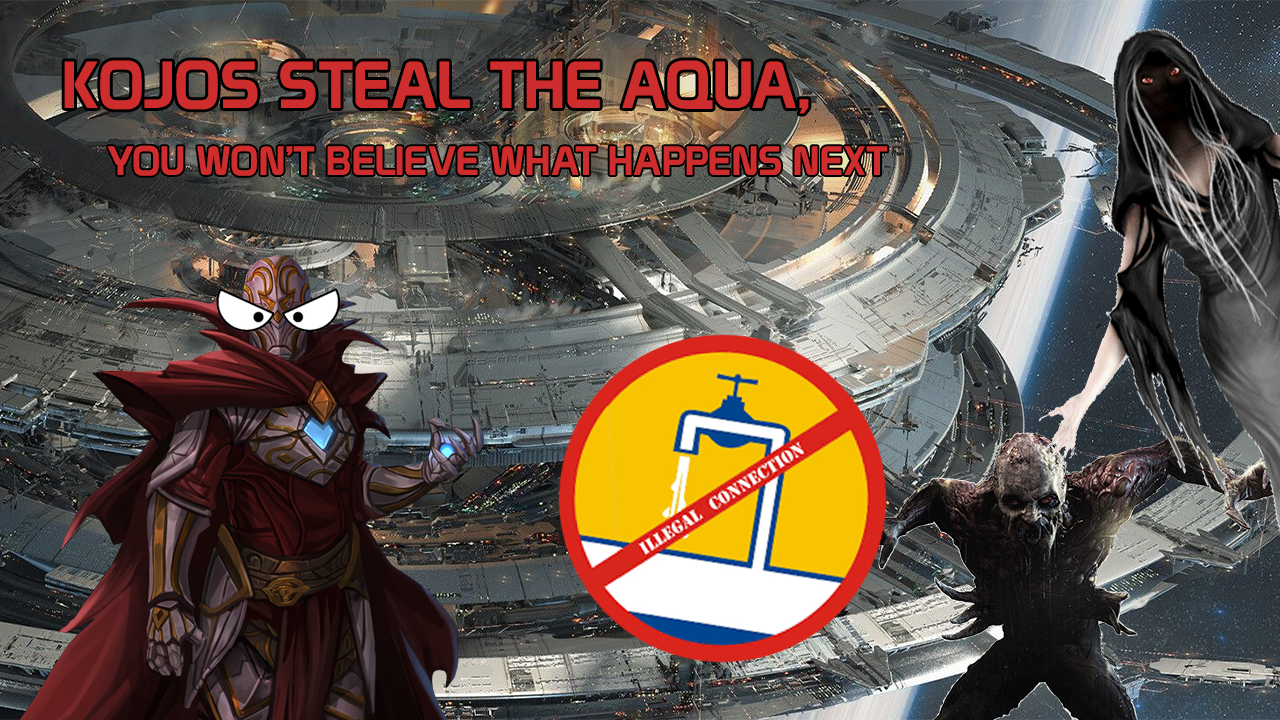
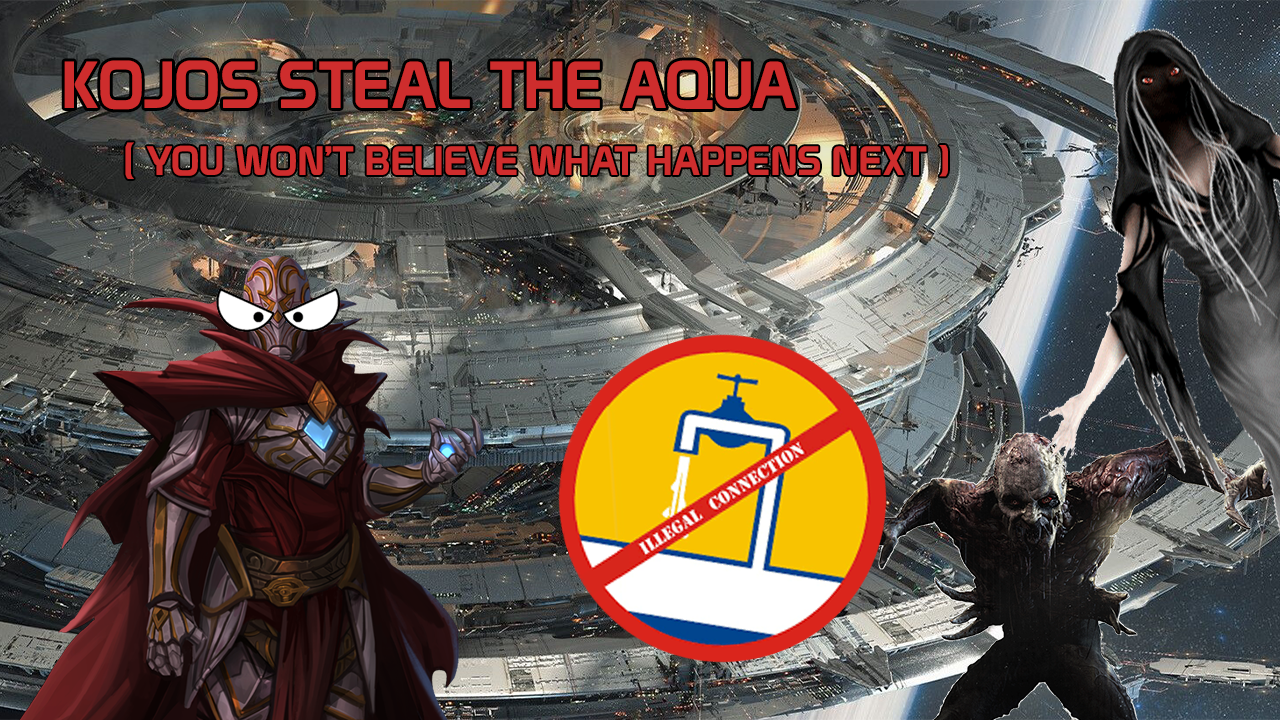
Support team. Responsiveness fixes

Changed region(s): [[0.0625, 0.1833, 0.75, 0.2444], [0.625, 0.1222, 0.6562, 0.1528]]

diff --git a/src/app/views/about-view/about-view.component.ts b/src/app/views/about-view/about-view.component.ts
@@ -39,6 +39,18 @@ export class AboutViewComponent implements OnInit {
       imagePath: 'assets/img/team/caliel_anon.png',
       content: 'Ex-corpo, alcoholic, genius? \n\nAlways has a bottle nearby, always knows how to fix your computer.'
     },
+    {
+      name: 'Allie',
+      function: 'Janitor, Cook',
+      imagePath: 'assets/img/team/allie.png',
+      content: 'Upbeat, cheerful, gullible. \n\n Moral support that cleans and cooks is never a bad thing'
+    },
+    {
+      name: 'Rabbit',
+      function: 'Engineer',
+      imagePath: 'assets/img/team/rabbit.png',
+      content: 'Can fashion a gun out of anything. \n\n Or fix an engine.'
+    },
   ]
 
   constructor() { }

diff --git a/src/app/views/about-view/about-view.component.html b/src/app/views/about-view/about-view.component.html
@@ -26,4 +26,18 @@
       [content]="member.content"
     ></app-team-member>
   </div>
+  <section class="cyberpunk black cp_section_small" fxLayout="row" fxLayoutAlign="center center">
+    <h1 class="cyberpunk cp_muted">Support</h1>
+  </section>
+  <div fxLayout="row wrap" fxLayout.sm="column" fxLayoutAlign="center center">
+    <app-team-member
+      *ngFor="let member of members | slice:5"
+      [name]="member.name"
+      [function]="member.function"
+      [imagePath]="member.imagePath"
+      [content]="member.content"
+    ></app-team-member>
+  </div>
+  <section class="cyberpunk cp_section_small" fxLayout="row" fxLayoutAlign="center center">
+  </section>
 </div>

diff --git a/src/app/component/title-banner/title-banner.component.scss b/src/app/component/title-banner/title-banner.component.scss
@@ -1,14 +1,27 @@
 .donate-banner > div > h1 {
   font-size: 80px;
-  color: var(--blue-color);
   line-height: 80px;
+  color: var(--blue-color);
 }
 
 .donate-banner > div > h3 {
-  font-size: 50px;
-  line-height: 50px;
+  font-size: 40px;
+  line-height: 40px;
 }
 
 .donate-banner > div > h3:after {
   content: '';
+}
+
+@media (max-width: 601px) {
+  .donate-banner > div > h1 {
+    font-size: 8vw;
+    line-height: 8vw;
+  }
+
+  .donate-banner > div > h3 {
+    font-size: 5vw;
+    line-height: 5vw;
+  }
+  
 }

diff --git a/src/app/component/team-member/team-member.component.scss b/src/app/component/team-member/team-member.component.scss
@@ -1,15 +1,12 @@
 .team-member {
-  margin: 50px;
+  margin: 40px;
   max-width: 640px;
 }
+
 .member-image {
   margin-right: 20px;
   width: 280px;
   height: 280px;
-}
-
-.member-description {
-  min-width: 400px;
 }
 
 h1.member-name {
@@ -21,5 +18,15 @@ p {
   font-size: 20px;
 }
 
+@media (max-width: 601px) {
+  .member-image {
+    margin-right: 0px;
+    width: 200px;
+    height: 200px;
+  }
 
+  .team-member {
+    margin: 10px;
+  }
+}
 

diff --git a/src/app/views/donate-view/donate-view.component.html b/src/app/views/donate-view/donate-view.component.html
@@ -5,7 +5,7 @@
   <section class="cyberpunk black">
     <div fxLayout="row" fxLayoutAlign="center center">
       <mat-icon>warning</mat-icon>
-      <h1>DO NOT DONATE, CORPO KOJOS SEIZED LIBERTY NEWS ACCOUNTS</h1>
+      <h1 class="warning">DO NOT DONATE, CORPO KOJOS SEIZED LIBERTY NEWS ACCOUNTS</h1>
       <mat-icon>warning</mat-icon>
     </div>
     <div fxLayout="row wrap" fxLayout.lt-md="column" fxLayoutAlign="space-around center">

diff --git a/src/app/component/story/story.component.html b/src/app/component/story/story.component.html
@@ -1,7 +1,7 @@
 <section class="cyberpunk black">
-  <h1 class="cyberpunk cp_muted">{{ headline }}</h1>
+  <h1 class="cyberpunk cp_muted headline">{{ headline }}</h1>
 </section>
-<section class="cyberpunk">
+<section class="cyberpunk video-section">
   <div fxLayout="row" fxLayout.lt-md="column" fxLayoutGap="10%">
     <div class="img-container" fxFlex>
       <img [src]="imgPath" class="cyberpunk" />

diff --git a/src/app/component/story/story.component.scss b/src/app/component/story/story.component.scss
@@ -3,7 +3,6 @@
   width: 100%;
   height: 100%;
   max-width: 1280px;
-  min-width: 320px;
   margin-bottom: 3% !important;
 }
 
@@ -33,4 +32,16 @@ h1 {
 p.content {
   font-size: 20px;
   white-space: pre-line;
+}
+
+@media (max-width: 601px) {
+  .headline {
+    font-size: 6vw;
+    line-height: 6vw;
+  }
+
+  .video-section {
+    padding: 10px 10px;
+  }
+  
 }

diff --git a/src/app/component/donate-card/donate-card.component.scss b/src/app/component/donate-card/donate-card.component.scss
@@ -1,5 +1,6 @@
 .donate-card {
-  width: 320px;
+  max-width: 320px;
+  min-width: 280px;
   margin: 20px;
   min-height: 480px;
 }

diff --git a/src/app/views/donate-view/donate-view.component.scss b/src/app/views/donate-view/donate-view.component.scss
@@ -1,3 +1,10 @@
 h1 {
   margin: 30px;
 }
+
+@media (max-width: 601px) {
+  h1 {
+    margin: 10px;
+    font-size: 4vw;
+  }
+}
